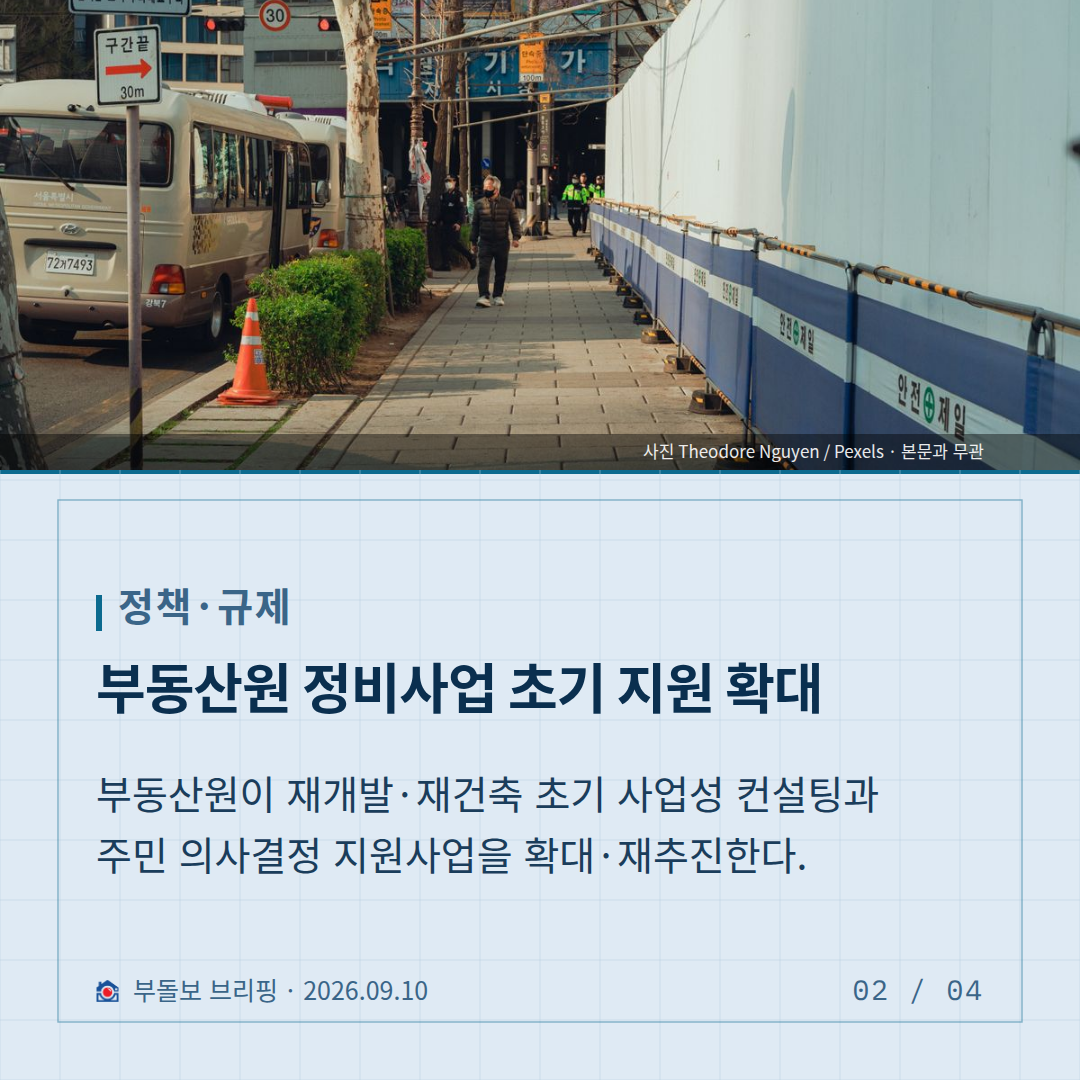
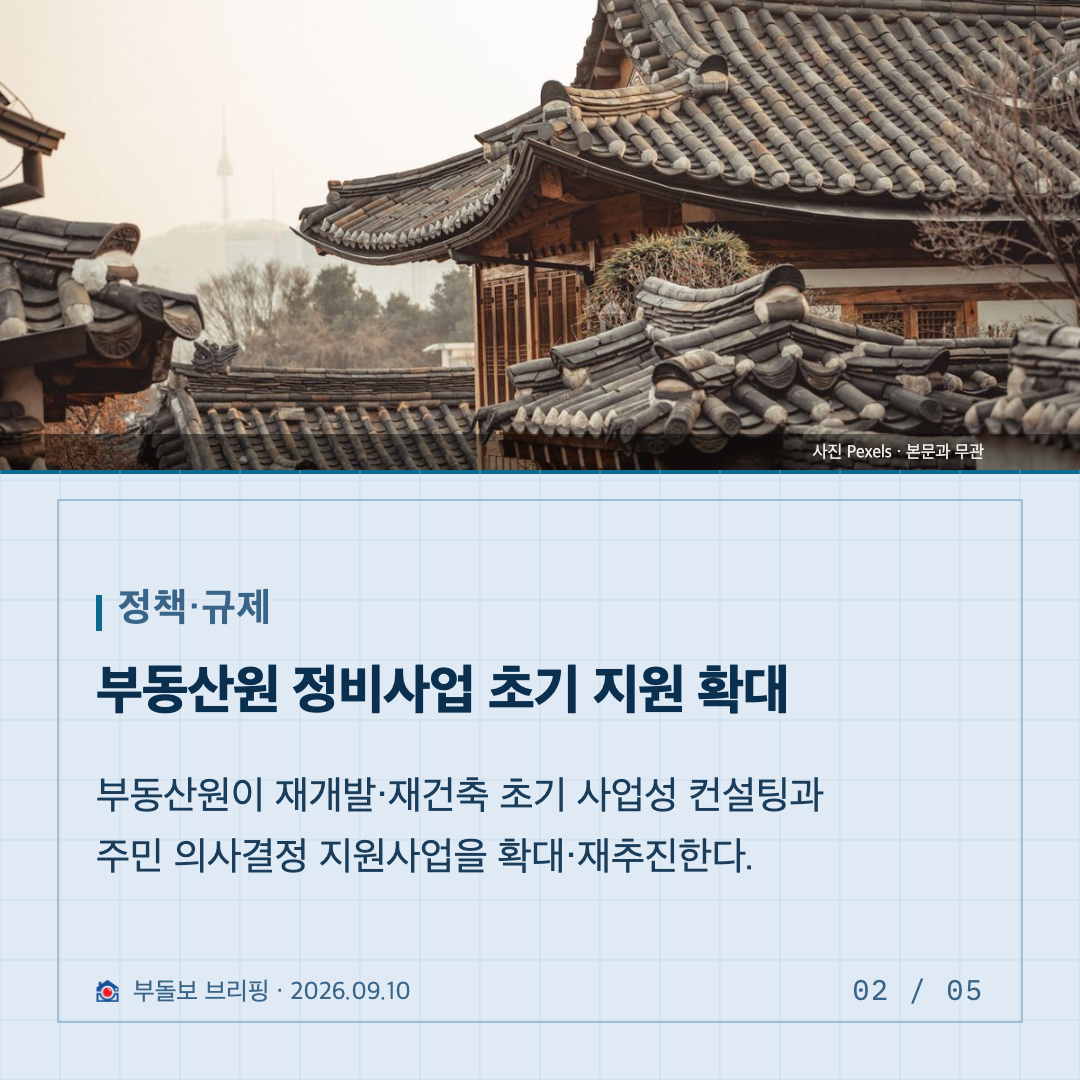
신고가 이슈 다음 장에 단지·금액 카드를 넣음
"아파트 신고가는 모든 사람이 관심 있어 하는 자료" (2026-09-10 사용자 요청). 이슈 제목·한 줄에
신고가·최고가가 있고 그달 실거래 신고가 목록(stats.highlights)이 있으면, 그 이슈 카드 바로
다음 장에 단지·금액·전용면적·전 최고가 대비를 다섯 건까지 싣습니다. 우리가 직접 센 값이라
모델을 거치지 않습니다. 수치가 없거나 그런 이슈가 없으면 장이 생기지 않습니다. 장수 셈법의
고정 한 장으로 들어가고, 파이프라인이 Renderer.cards 에 통계를 넘깁니다. 오늘 카드 묶음은
신고가 장을 넣어 다시 뽑았습니다 (4장 → 5장).

diff --git a/rebrief/images.py b/rebrief/images.py
@@ -1156,7 +1156,7 @@ CARD_PAPER = ("#dfeaf4", "#0a2f4f", "#3a6588", "#b9d0e3", "#0b6a8f")
 
 # 일곱 장의 박자. 표지·목록은 남색, 숫자는 짙은 남색, 이슈는 밝은 청사진.
 CARD_FACES = {"cover": CARD_DARK, "numbers": CARD_FLOOD, "issue": CARD_PAPER,
-              "rest": CARD_DARK}
+              "rest": CARD_DARK, "deals": CARD_FLOOD}
 
 CARD_LIGHT = "#ffffff"     # 소제목·사진 위 글씨. 어느 낯에서든 흰색이다.
 CARD_GRID = 60             # 제도 격자 한 칸
@@ -1858,6 +1858,80 @@ def _issue_card(issue: dict, n: int, total: int, date: str, channel: str,
     return Image(f"card-{n}-issue", _embed_fonts("\n".join(p)), str(issue.get("title", "")))
 
 
+# 신고가 카드 — 이슈가 신고가·최고가를 말하는 날, 그 다음 장에 단지와 금액을 싣는다.
+_DEAL_WORDS = ("신고가", "최고가")
+
+
+def _mentions_deals(issue: dict) -> bool:
+    text = f"{issue.get('title', '')} {issue.get('one_liner', '')}"
+    return any(word in text for word in _DEAL_WORDS)
+
+
+def _eok(amount) -> str:
+    """원 → '10.8억'. 끝의 0 은 뗀다 (13.0억 → 13억)."""
+    try:
+        eok = float(amount) / 1e8
+    except (TypeError, ValueError):
+        return ""
+    return f"{eok:.1f}".rstrip("0").rstrip(".") + "억"
+
+
+def _deals_card(deals: list[dict], month_label: str, n: int, total: int,
+                date: str, channel: str) -> Image:
+    """이달의 신고가 — 단지·금액·전 최고가 대비. 우리가 직접 센 실거래라 모델을 거치지 않는다.
+
+    2026-09-10 사용자 요청: "아파트 신고가는 모든 사람이 관심 있어 하는 자료". 이슈 카드가
+    신고가를 말하는 날, 바로 다음 장에 실제 단지와 금액을 보여 줍니다. 수치가 없는 날은
+    이 장이 아예 생기지 않습니다.
+    """
+    w, h = CARD_SIZE
+    ground, ink, dim, rule, signal = CARD_FACES["deals"]
+    p, top, bottom = _card_frame(CARD_FACES["deals"], n, total, date=date, channel=channel)
+    inner = w - 192
+
+    title = f"{month_label} 신고가" if month_label else "이달의 신고가"
+    p.append(f'<text x="{w/2:.0f}" y="{top+66:.0f}" font-size="68" font-weight="800" '
+             f'letter-spacing="-1" text-anchor="middle" fill="{CARD_LIGHT}">{esc(title)}</text>')
+    head_h = 116
+    room = bottom - top - head_h
+
+    rows = []
+    for d in deals[:5]:
+        amount = _eok(d.get("amount"))
+        if not amount:
+            continue
+        amt_size = 60
+        amt_w = text_width(amount, amt_size) * 0.92          # 고정폭을 조여 쓰므로 조금 좁다
+        name = f"{d.get('district', '')} {d.get('name', '')}".strip()
+        name_lines, name_size = _fit(name, 42, inner - amt_w - 28, 1, floor=30)
+        bits = []
+        if d.get("area"):
+            bits.append(f"전용 {float(d['area']):g}㎡")
+        if d.get("before"):
+            bits.append(f"전 최고가 {_eok(d['before'])}")
+        if d.get("pct") is not None:
+            bits.append(f"{float(d['pct']):+.1f}%")
+        sub = " · ".join(bits)
+        rows.append((name_lines[0], name_size, amount, amt_size, sub, 42 + 14 + 28 + 40))
+    while len(rows) > 1 and sum(r[5] for r in rows) > room:
+        rows.pop()
+
+    y = top + head_h + max(0, (room - sum(r[5] for r in rows)) / 2)
+    for i, (name, name_size, amount, amt_size, sub, height) in enumerate(rows):
+        base = y + 42
+        p.append(f'<text x="96" y="{base:.0f}" font-size="{name_size:.0f}" font-weight="800" '
+                 f'letter-spacing="-1" fill="{ink}">{esc(name)}</text>')
+        _numeral(p, amount, w - 96, base + 6, amt_size, signal, anchor="end")
+        if sub:
+            p.append(f'<text x="96" y="{base+14+28:.0f}" font-size="28" fill="{dim}">{esc(sub)}</text>')
+        y += height
+        if i < len(rows) - 1:
+            p.append(f'<line x1="96" y1="{y-20:.0f}" x2="{w-96}" y2="{y-20:.0f}" '
+                     f'stroke="{ink}" stroke-width="1.5" opacity="0.28"/>')
+    p.append("</svg>")
+    return Image(f"card-{n}-deals", _embed_fonts("\n".join(p)), title)
+
+
 def _list_card(title: str, items: list[str], slug: str, n: int, total: int,
                date: str, channel: str) -> Image:
     """제목 하나에 항목 몇 줄. 번호가 도면의 부품 번호처럼 붙는다."""
@@ -1926,7 +2000,8 @@ def _drop_repeats(issues: list[dict], threshold: float = 0.40) -> list[dict]:
 
 def cards(brief: dict, *, date: str = "", channel: str = "", key_numbers: list[dict] | None = None,
           max_cards: int = 10,
-          art: list[Path | tuple[Path, str]] | None = None) -> list[Image]:
+          art: list[Path | tuple[Path, str]] | None = None,
+          deals: list[dict] | None = None, deals_label: str = "") -> list[Image]:
     """하루치 브리핑을 유튜브 게시물용 카드 5~7장으로.
 
     **모델을 새로 부르지 않습니다.** 이미 만들어 둔 브리핑(headline·issues·numbers·
@@ -1937,6 +2012,10 @@ def cards(brief: dict, *, date: str = "", channel: str = "", key_numbers: list[d
     뺐습니다(사용자 지시) — 브리핑의 `tomorrow_watch` 는 글과 사이트에만 남습니다.
     **장수는 그날 내용에 따라 정해집니다** — 이슈가 많으면 `max_cards` 까지 늘고,
     자료가 모자란 날은 네댓 장으로 줄어듭니다. 억지로 채우지 않습니다.
+
+    `deals` 는 그달 실거래 신고가 목록(`stats.highlights`)입니다. 이슈가 신고가·최고가를
+    말하는 날 **그 이슈 카드 바로 다음 장**에 단지와 금액을 싣습니다 (2026-09-10 사용자 요청).
+    수치가 없거나 그런 이슈가 없으면 장이 생기지 않습니다.
 
     `art` 를 넘기면 표지와 이슈 카드 위쪽에 **그날 만든 인포그래픽**을 얹습니다.
     기사 사진이 아닙니다 — 남의 사진은 저작권이 있어 쓸 수 없고 수집하지도 않습니다.
@@ -1962,13 +2041,16 @@ def cards(brief: dict, *, date: str = "", channel: str = "", key_numbers: list[d
         if text and text in headline:
             badge = text
             break
+    deal_rows = [d for d in (deals or []) if d.get("kind", "신고가") == "신고가" and d.get("amount")]
+    has_deals = bool(deal_rows) and any(_mentions_deals(i) for i in issues)
+
     # 장수를 먼저 정한다 — 쪽번호(02 / 07)를 찍어야 하므로.
     #
     # **장수를 고정하지 않습니다** (2026-09-08, 사용자 지시). 이슈가 많은 날은 늘고
     # 적은 날은 줄어듭니다. `max_cards` 는 상한일 뿐 목표가 아닙니다 — 억지로 채우면
     # 내용 없는 카드가 한 장 더 붙습니다.
     def layout(with_numbers: bool) -> tuple[int, list[dict]]:
-        fixed = 1 + int(with_numbers)                      # 표지·숫자
+        fixed = 1 + int(with_numbers) + int(has_deals)     # 표지·숫자·신고가
         room = max(1, max_cards - fixed)                   # 이슈에 쓸 수 있는 장수
         n = min(len(issues), max(1, room - 1))             # '그 밖의 소식' 한 장을 남겨 둔다
         tail = issues[n:]
@@ -1993,9 +2075,16 @@ def cards(brief: dict, *, date: str = "", channel: str = "", key_numbers: list[d
     plan = ["cover"]
     if has_numbers:
         plan.append("numbers")
-    plan += ["issue"] * deep
+    placed = False
+    for i in range(deep):
+        plan.append("issue")
+        if has_deals and not placed and _mentions_deals(issues[i]):
+            plan.append("deals")           # 신고가를 말한 이슈 바로 다음 장
+            placed = True
     if rest:
         plan.append("rest")
+    if has_deals and not placed:           # 그 이슈가 '그 밖의 소식' 에 묶인 날
+        plan.append("deals")
     plan = plan[:max_cards]
     total = len(plan)
 
@@ -2024,4 +2113,6 @@ def cards(brief: dict, *, date: str = "", channel: str = "", key_numbers: list[d
         elif kind == "rest":
             out.append(_list_card("그 밖의 오늘 소식", [i["title"] for i in rest],
                                   "rest", n, total, date, channel))
+        elif kind == "deals":
+            out.append(_deals_card(deal_rows, deals_label, n, total, date, channel))
     return out

diff --git a/tests/test_develop.py b/tests/test_develop.py
@@ -2763,3 +2763,38 @@ def test_cover_title_breaks_only_between_stories(cfg):
                        got[0].svg)
     assert [t for _, t in texts] == ["부동산원 정비사업 지원 확대", "목동 청약 흥행", "서울 신고가 속출"]
     assert len({s for s, _ in texts}) == 1                     # 세 줄이 같은 크기
+
+
+def test_cards_put_record_prices_right_after_the_issue_that_mentions_them(cfg):
+    """신고가 이슈 다음 장에 단지·금액이 실린다 (2026-09-10 사용자 요청).
+
+    수치가 없거나 신고가를 말하는 이슈가 없으면 장이 생기지 않는다.
+    """
+    from rebrief import images
+
+    deals = [{"kind": "신고가", "district": "성동구", "name": "벽산", "area": 84.8,
+              "amount": 1080000000, "before": 860000000, "pct": 25.6},
+             {"kind": "신고가", "district": "송파구", "name": "우방1", "area": 84.9,
+              "amount": 1300000000, "before": 1070000000, "pct": 21.5}]
+    brief = {"headline": "오늘", "issues": [
+        {"title": "정비사업 지원 확대", "one_liner": "한 줄", "numbers": []},
+        {"title": "서울 개별단지 신고가 거래 속출", "one_liner": "한 줄", "numbers": []},
+        {"title": "목동 청약 흥행", "one_liner": "한 줄", "numbers": []},
+    ]}
+    got = images.cards(brief, date="2026-09-10", deals=deals, deals_label="2026년 7월")
+    kinds = [g.slug.split("-", 2)[-1] for g in got]
+    assert kinds == ["cover", "issue", "issue", "deals", "issue"]        # 신고가 이슈(3번) 바로 다음
+    deal = got[3]
+    plain = re.sub(r"<[^>]+>", "", deal.svg)          # 수치는 마침표에서 조각나므로 글자만 본다
+    assert "2026년 7월 신고가" in plain and "성동구 벽산" in plain and "10.8억" in plain
+    assert "13억" in plain and "+25.6%" in plain and "84.8㎡" in plain
+    assert f"04 / {len(got):02d}" in deal.svg                              # 쪽번호가 장수에 맞다
+
+    # 수치가 없으면 장이 없다 · 신고가를 말하는 이슈가 없어도 없다
+    assert not any(g.slug.endswith("-deals") for g in images.cards(brief, date="2026-09-10"))
+    quiet = dict(brief, issues=[i for i in brief["issues"] if "신고가" not in i["title"]])
+    assert not any(g.slug.endswith("-deals")
+                   for g in images.cards(quiet, date="2026-09-10", deals=deals))
+    # 상한 안에 든다
+    assert len(images.cards(brief, date="2026-09-10", deals=deals, max_cards=4)) == 4
+    assert images._eok(598000000) == "6억" and images._eok(720000000) == "7.2억"

diff --git a/rebrief/render.py b/rebrief/render.py
@@ -264,7 +264,8 @@ class Renderer:
             "data.json", json.dumps(payload, ensure_ascii=False, indent=2) + "\n"
         )
 
-    def cards(self, brief: DailyBrief, key_numbers: list | None = None) -> list[str]:
+    def cards(self, brief: DailyBrief, key_numbers: list | None = None,
+              stats: dict | None = None) -> list[str]:
         """유튜브 게시물용 카드뉴스. 만든 파일 이름들을 돌려준다.
 
         이미 만들어 둔 브리핑을 나눠 담는 것이라 **모델을 새로 부르지 않습니다.**
@@ -281,6 +282,9 @@ class Renderer:
             key_numbers=[n.__dict__ if hasattr(n, "__dict__") else n for n in (key_numbers or [])],
             max_cards=int(cfg.get("cards_max", 7)),
             art=self._card_art(payload) if cfg.get("cards_art", True) else None,
+            # 그달 신고가 목록. 이슈가 신고가를 말하는 날 그 다음 장에 실린다.
+            deals=list((stats or {}).get("highlights") or []),
+            deals_label=str((stats or {}).get("month_label", "") or ""),
         )
         # 카드는 밑그림이 이미 1080×1080 입니다. 2배로 뽑으면 2160 이 되는데, 올릴 곳인
         # 유튜브 커뮤니티 게시물은 어차피 1080 언저리로 줄여 보여 줍니다 — 늘어난 화소는

diff --git a/rebrief/pipeline.py b/rebrief/pipeline.py
@@ -273,7 +273,7 @@ def _generate_with_llm(
 
     slot_files = renderer.images(brief, history=history, post=post)
     # 유튜브 게시물용 카드뉴스. 브리핑을 나눠 담을 뿐이라 모델을 다시 부르지 않는다.
-    made["cards"] = renderer.cards(brief)
+    made["cards"] = renderer.cards(brief, stats=stats_data)
     keys: list = []
     if post is not None:
         # 오늘의 핵심 수치: 브리핑 datapoint 가운데 글에 실제로 쓰인 것. 블로그 카드·강조·썸네일 배지가 함께 쓴다.

diff --git a/rebrief/site.py b/rebrief/site.py
@@ -598,7 +598,7 @@ def _copy_assets(day: Path, dest: Path) -> list[dict]:
 
 # 카드 파일 이름(card-<쪽>-<낯>.png)에서 낯을 사람 말로 옮긴다.
 _CARD_FACES = {"cover": "표지", "numbers": "오늘의 숫자", "issue": "이슈",
-               "rest": "나머지 이슈",
+               "rest": "나머지 이슈", "deals": "신고가",
                "watch": "내일 볼 것"}   # 2026-09-09 전 카드에만 있는 낯. 지난 날짜 이름표용
 _CARD_NAME = re.compile(r"^card-(\d+)-([a-z]+)$")
 
